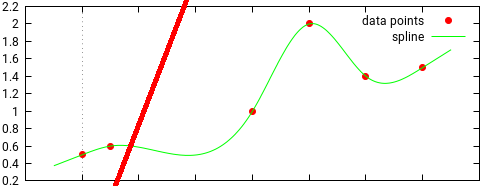
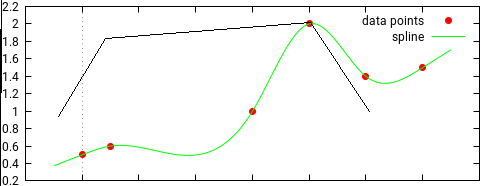
Draw spline points

diff --git a/flaskr/upload.py b/flaskr/upload.py
@@ -1,4 +1,5 @@
 import cv2
+import numpy as np
 
 from os.path import join, dirname, realpath
 
@@ -10,15 +11,34 @@ from flask import request
 from flask import send_from_directory
 from flask import url_for
 
+from scipy import interpolate
 from werkzeug.utils import secure_filename
 
 bp = Blueprint("upload", __name__)
 
+t = [0,0,0,0,1,1,1,1]
+c = [[58.3863029989894,116.89745219181054],[105.31685340513181,38.956713078315055],[310.3370211379565,22.44508241175887],[369.9147409302334,111.62765304361334]]
+c_int = np.array(c)
+k = 3
+
 def draw_spline(file_path):
     img = cv2.imread(file_path, 1)
     height, width, channels = img.shape
+
+    x_range = np.arange(width)
+    x_range_new = np.arange(width)
+    y_range = interpolate.splev(x_range_new, (t, c, k), der=0)
+
+    print(len(y_range))
     red = (0, 0, 255)
-    cv2.line(img, (height, 0), (0, width), red, 3)
+
+    draw_points = (np.asarray([c_int[:,0], c_int[:,1]]).T).astype(np.int32)
+    cv2.polylines(img, [draw_points], False, (0,0,0))  # args: image, points, closed, color
+
+    for n in range(len(y_range)):
+        draw_points = (np.asarray([x_range, y_range[n]]).T).astype(np.int32)   # needs to be int32 and transposed
+        cv2.polylines(img, [draw_points], False, (0,0,0))  # args: image, points, closed, color
+
     cv2.imwrite(file_path, img)
 
 def allowed_file(filename):
@@ -51,6 +71,7 @@ def upload_file():
     <form method=post enctype=multipart/form-data>
       <input type=file name=file>
       <input type=submit value=Upload>
+      <input type=text value=Param>
     </form>
     '''
 
